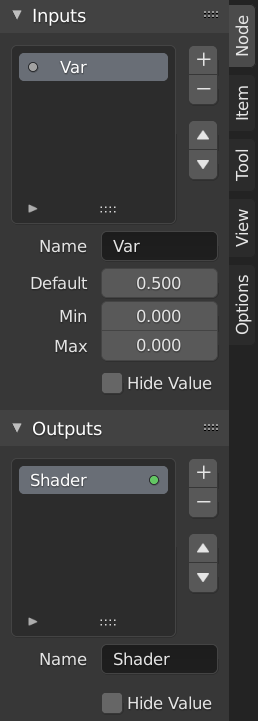
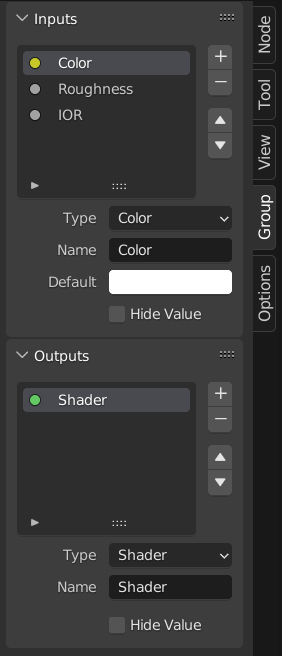
Fix: Outdated images and text in the node groups page
git-svn-id: https://svn.blender.org/svnroot/bf-manual/trunk/blender_docs@8807 c4de1f47-6596-e411-a384-0024e86c2797

diff --git a/manual/interface/controls/nodes/groups.rst b/manual/interface/controls/nodes/groups.rst
@@ -57,7 +57,7 @@ Panel
 .. reference::
 
    :Mode:      All Modes
-   :Panel:     :menuselection:`Sidebar --> Group --> Interface`
+   :Panel:     :menuselection:`Sidebar --> Group --> Inputs`, :menuselection:`Sidebar --> Group --> Outputs`
 
 .. figure:: /images/interface_controls_nodes_groups_interface-panel.png
    :align: right
